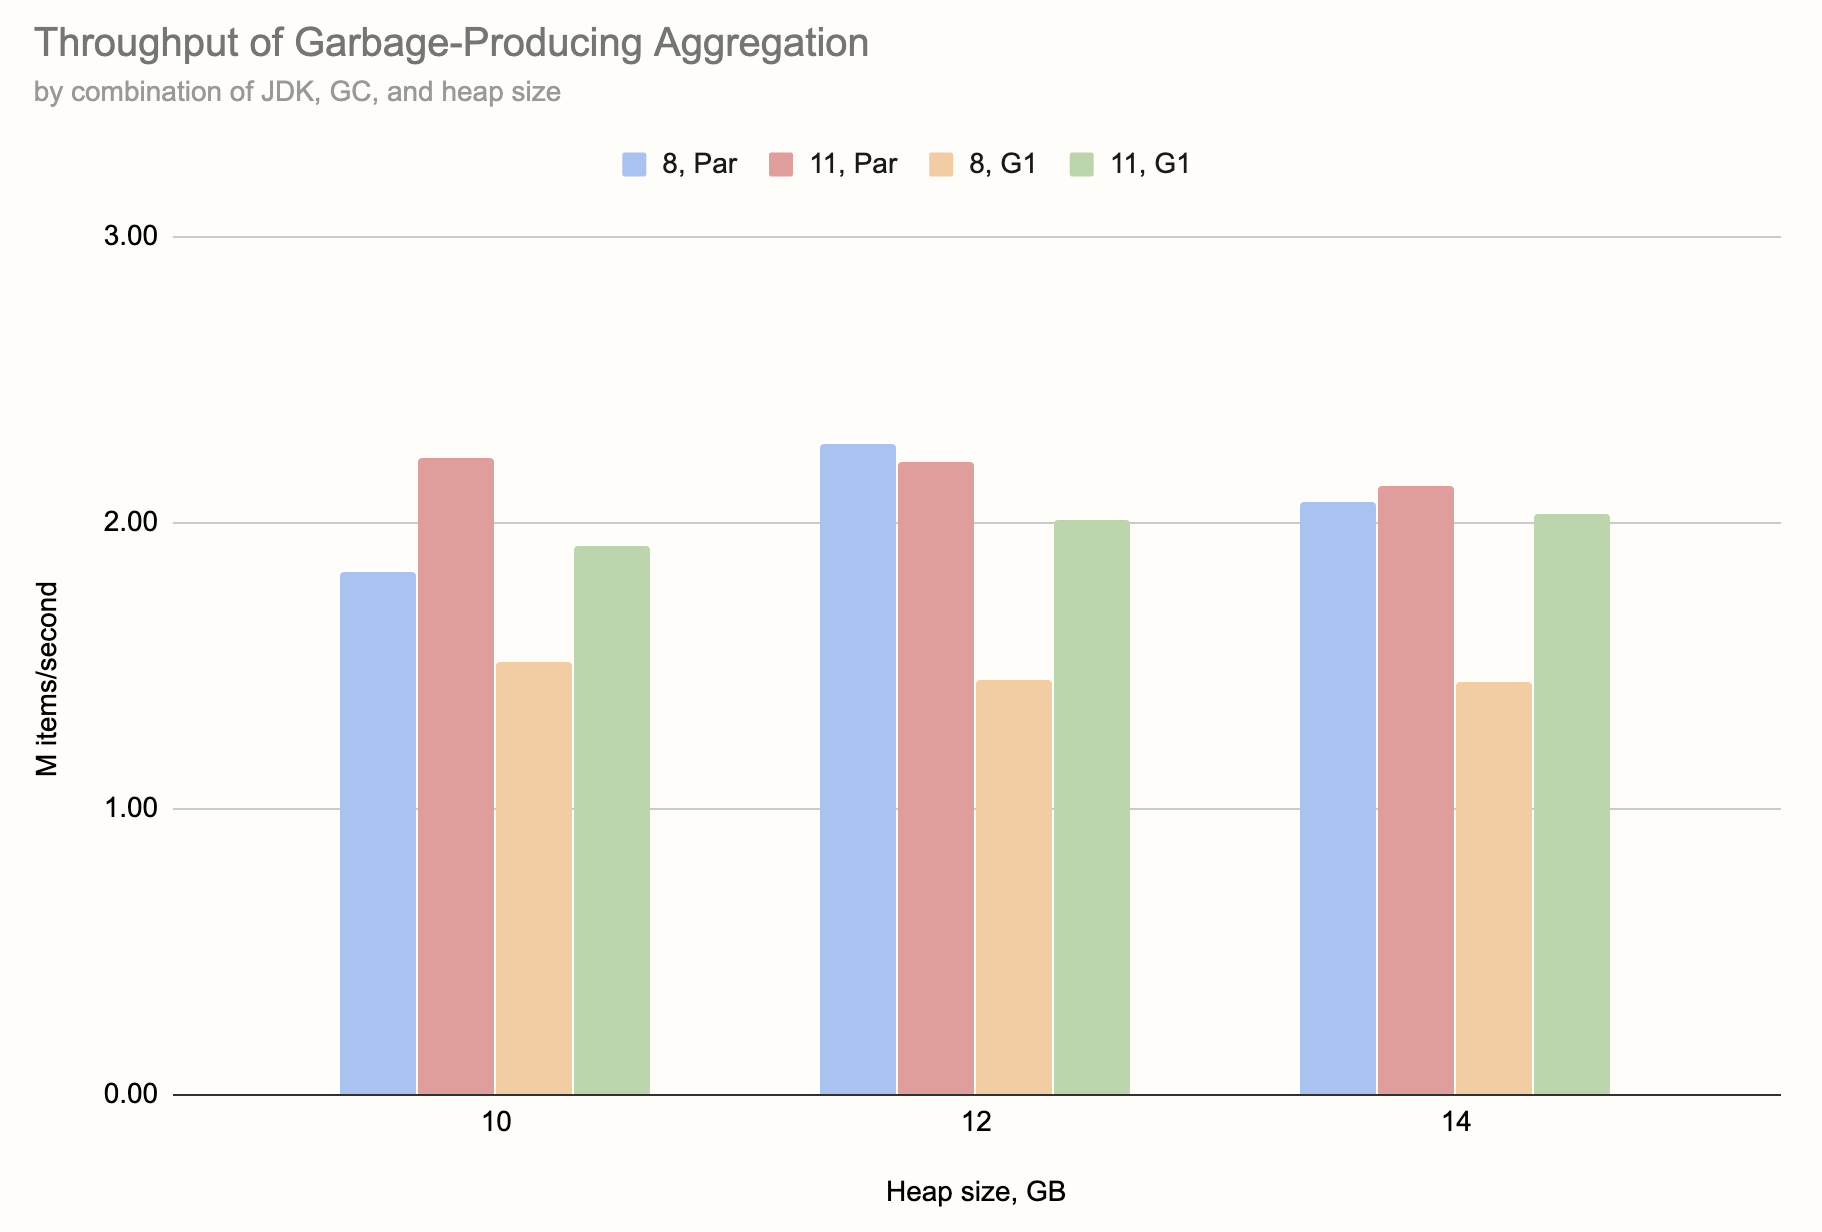
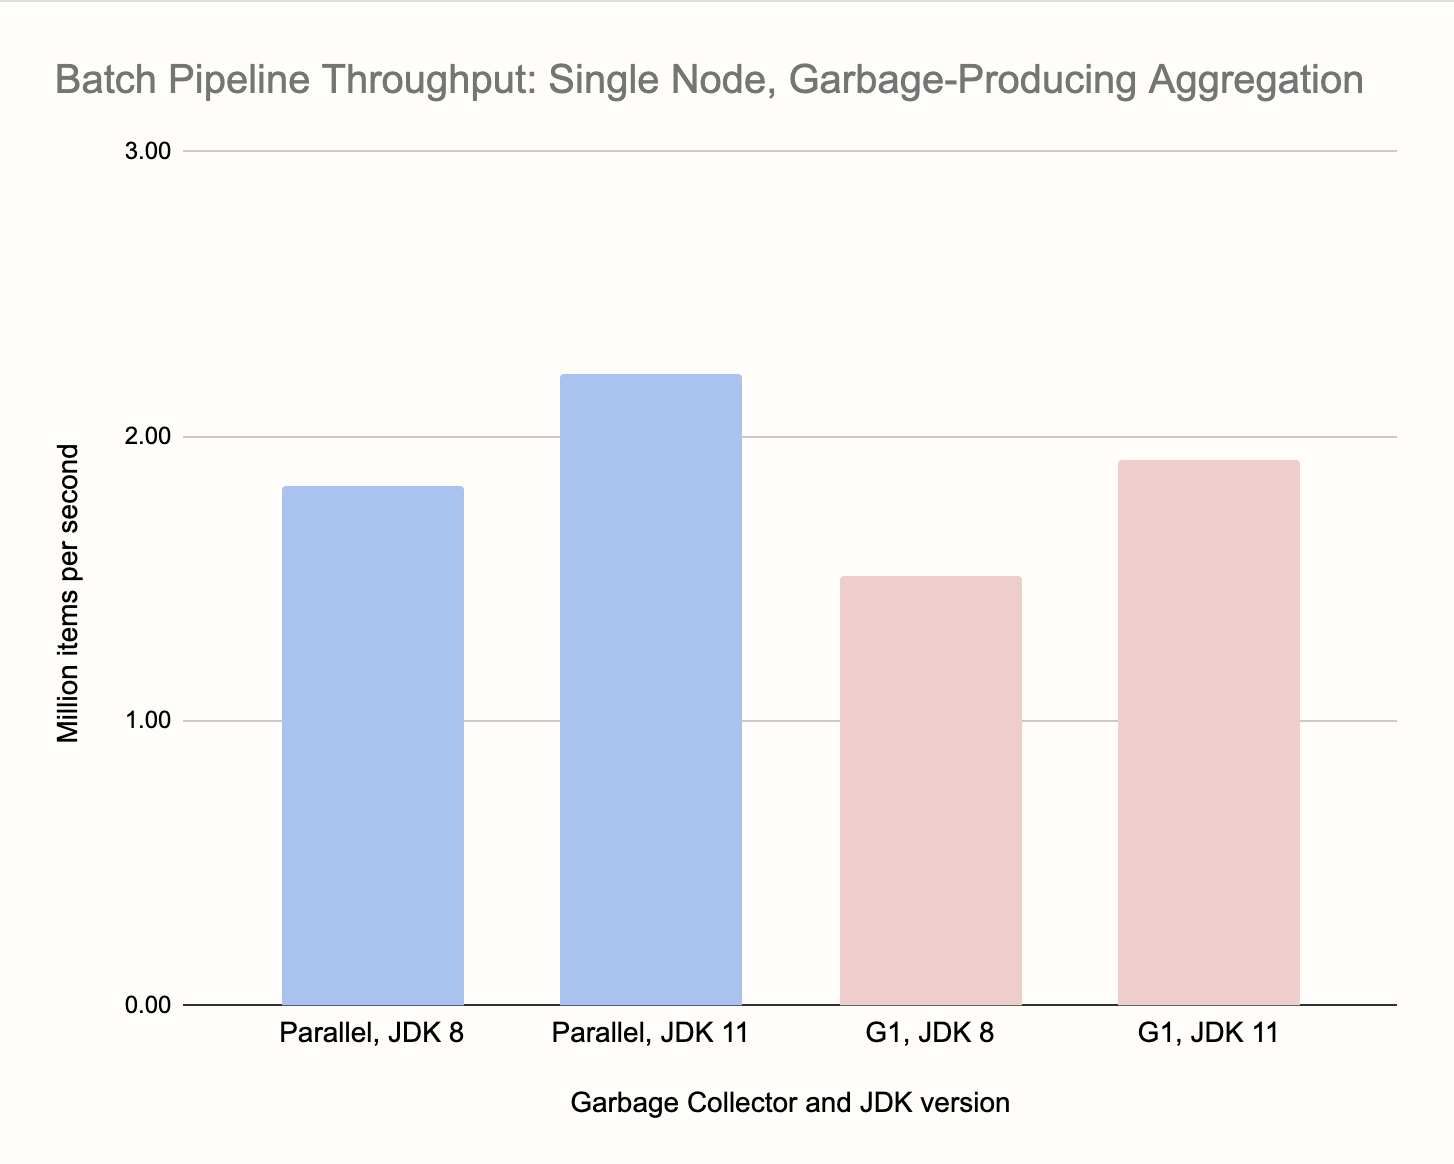
More content

diff --git a/site/website/blog/2020-06-01-jdk-gc-benchmarks-part2.md b/site/website/blog/2020-06-01-jdk-gc-benchmarks-part2.md
@@ -1,0 +1,181 @@
+---
+title: Benchmarking Jet with Different JDKs and GCs, Part 2
+description: Choosing the right JDK-GC combination is important.
+---
+
+## Batch Pipeline Benchmark
+
+For the batch benchmark we considered the Parallel GC as a relevant
+candidate. In the first testing round, on a single node, it actually
+delivered the best throughput (but only after GC tuning). However, it
+achieves that throughput at the expense of GC pause duration. In a
+cluster, whenever any node enters a GC pause, it stalls the whole data
+pipeline. Since individual nodes enter GC pauses at different times, the
+amount of time spent in GC goes up with every node you add to the
+cluster. We explored this effect by comparing single-node tests with
+tests in a three-node cluster.
+
+### Single-Node Benchmark: The Pipeline
+
+For the single-node batch benchmark we used this simple pipeline:
+
+```java
+p.readFrom(longSource)
+ .groupingKey(n -> n / % NUM_KEYS)
+ .aggregate(summingLong(n -> n))
+ .filter(e -> (e.getKey() & 0xFF_FFFFL) == 0)
+ .writeTo(Sinks.logger())
+```
+
+The source is again a self-contained mock source that just emits a
+sequence of `long` numbers and the key function is defined so that the
+grouping key cycles through the key space: 0, 1, 2, ..., 0, 1, 2, ...
+This means that, over the first cycle, the pipeline observes all the
+keys and builds up a fixed data structure to hold the aggregation
+results. Over the following cycles it just updates the existing data.
+This aligns perfectly with the Generational Garbage Hypothesis: the
+objects either last through the entire computation or are short-lived
+temporary objects that become garbage very soon after creation.
+
+We let our source emit 400 million items and had 100 million distinct
+keys, so we cycled four times over the same keys.
+
+We also tested a variant where the aggregate operation uses a boxed
+`Long` instance as state, producing garbage every time the running score
+is updated. In this case the garbage isn't strictly generational because
+the objects die after having spent substantial time in the old
+generation. For this variant we had to reduce the number of keys to 70
+million, with 100 million the GC pressure was too high.
+
+For the batch pipeline we didn't focus on the low-latency collectors
+since they have nothing to offer in this case. Also, because we saw
+earlier that JDK 14 performs much the same as JDK 11, we just ran one
+test to confirm it, but otherwise focused on JDK 8 vs. JDK 11 and
+compared the JDK 8 default Parallel collector with G1.
+
+### Single-Node Benchmark: The Results
+
+For single-node testing, we ran the benchmark on a laptop with 16 GB RAM
+and a 6-core Intel Core i7. We used a heap size of 10 GB.
+
+Initially we got very bad performance out of the Parallel collector and
+had to resort to GC tuning. For this purpose we highly recommend using
+VisualVM and its Visual GC plugin. When you set the frame rate to the
+highest setting (10 FPS), you can enjoy a very fine-grained visual
+insight into how the interplay between your application's allocation and
+the GC works out. By watching these live animations for a while, we
+realized that the main issue was a too large slice of RAM given to the
+new generation. By default the ratio between Old and New generations is
+just 2:1, and it is not dynamically adaptable at runtime. Based on this
+we decided to try with `-XX:NewRatio=8` and it completely changed the
+picture. Now Parallel was turning in the best times overall. We also
+used `-XX:MaxTenuringThreshold=2` to reduce the copying of data between
+the Survivor spaces, since in the pipeline the temporary objects die
+pretty soon.
+
+The only relevant metric in this batch pipeline benchmark is the time
+for the job to complete. To visualize the results we took the reciprocal
+of that, so the charts show throughput in items per second. Here are our
+results on a single node:
+
+![Single-node Batch pipeline with garbage-free aggregation](assets/2020-06-01-batch-mutable.png)
+
+![Single-node Batch pipeline with garbage-producing aggregation](assets/2020-06-01-batch-boxed.png)
+
+Comparing the two charts we can see that garbage-free aggregation gave a
+throughput boost of around 30-35%, and that's despite the larger
+keyset we used for it. G1 on JDK 8 was the worst performer and the
+fine-tuned Parallel on JDK 11 was the best. G1 on JDK 11 wasn't far
+behind. Note that we didn't have to touch anything in the configuration
+of G1, which is an important fact. GC tuning is highly case-specific,
+the results may dramatically change with e.g., more data, and it must be
+applied to the Jet cluster globally, making it specifically tuned for
+one kind of workload.
+
+Here's the performance of the default Parallel GC compared to the tuned
+version we used for testing:
+
+![Throughput of the Parallel Collector with and without tuning](assets/2020-06-01-batch-parallel.png)
+
+With 10 GB of heap it failed completely, stuck in back-to-back Full GC
+operations each taking about 7 seconds. With more heap it managed to
+make some progress, but was still hampered with very frequent Full GCs.
+Note that we got the above results for the most favorable case, with
+garbage-free aggregation.
+
+### Three-Node Cluster Benchmark: The Pipeline
+
+To properly benchmark in the cluster, we had to use a bit more complex
+pipeline:
+
+```java
+p.readFrom(longSource())
+ .rebalance() // Upcoming feature in Jet 4.2
+ .flatMap(n -> {
+     Long[] items = new Long[SOURCE_STEP];
+     Arrays.setAll(items, i -> n + i);
+     return traverseArray(items);
+ })
+ .rebalance()
+ .groupingKey(n -> n % NUM_KEYS)
+ .aggregate(AggregateOperations.summingLong(n -> n))
+ .filter(e -> e.getKey() % 1_000_000 == 0)
+ .writeTo(Sinks.logger())
+;
+```
+
+Since the source is non-parallel, we applied some optimizations so it
+doesn't become a bottleneck. We let the source emit the numbers 0, 10,
+20, ... and then applied a parallelized `flatMap` stage that
+interpolates the missing numbers. We also used `rebalance()` between the
+source and `flatMap`, spreading the data across the cluster. We applied
+rebalancing again before entering the main stage, keyed aggregation.
+Here rebalancing results in single-stage aggregation whereas Jet
+defaults to [two-stage
+aggregation](/docs/concepts/dag#group-and-aggregate-transform-needs-data-partitioning).
+It exhibited more predictable behavior in our benchmark. After the
+aggregation stage we first reduce the output to every millionth
+key-value pair and then send it to the logger. We used one billion data
+items and used a keyset of half a billion.
+
+Same as on single-node, we tested both this pipeline, with a garbage-free
+aggregation, and one with garbage producing aggregation.
+
+### Three-Node Cluster Benchmark: The Results
+
+We performed this benchmark on an AWS cluster of three c5d.4xlarge
+instances. They have 16 virtualized CPU cores and 32 GB of RAM. The
+network is 10 Gbit/s. Here are the results:
+
+![3-Node Batch pipeline with garbage-free aggregation](assets/2020-06-01-batch-cluster-mutable.png)
+
+![3-Node Batch pipeline with garbage-producing aggregation](assets/2020-06-01-batch-cluster-boxed.png)
+
+To begin with, we can note the overall increase in throughput compared
+to single-node benchmarks, about three times. That's the advantage of
+distributed processing. The most obvious thing to note is the almost
+nonexistent bar for G1 on JDK 8, however there's a deeper story here
+that affects other measurements as well, for example the apparent
+advantage of Parallel GC on JDK 8 vs. JDK 11. It has to do with the
+effect we noted at the outset: a GC pause on any one member halts the
+processing on the entire cluster. G1 on JDK 8 enters very long GC
+pauses, more than a minute. This is enough to trigger the cluster's
+failure detector and consider the node dead. The job fails, the cluster
+reshapes itself, and then the job restarts on just two nodes. This,
+naturally, fails even sooner because there's more data on each member.
+So we end up in an endless loop of job restarts.
+
+The good result for the Parallel on JDK 8 is due to a very lucky
+coincidence that the Full GC pauses got synchronized on all nodes,
+parallelizing the effort of the GC. Clearly, this is not a reliable
+effect.
+
+Even though in the particular benchmark setup which we report here, we
+didn't observe the catastrophic consequence of long GC pauses while
+using the Parallel collector, it is more of a chance outcome. In other
+tests, where we used a larger heap and more data, or the same heap but
+with less headroom left, the Parallel collector did cause the same
+damage. However, even when it doesn't cause outright failure, the charts
+show the advantage it had on a single node has disappeared. You can
+expect the results to get worse with each further node you add to the
+cluster.

diff --git a/site/website/blog/2020-06-01-jdk-gc-benchmarks-part1.md b/site/website/blog/2020-06-01-jdk-gc-benchmarks-part1.md
@@ -1,5 +1,5 @@
 ---
-title: Benchmarking Jet with Different JDKs and GCs
+title: Benchmarking Jet with Different JDKs and GCs, Part 1
 description: Choosing the right JDK-GC combination is important.
 ---
 
@@ -79,23 +79,19 @@ with some minor variations between the tests. Here is the main part, the
 Jet pipeline:
 
 ```java
-private static Pipeline buildPipeline() {
-    Pipeline p = Pipeline.create();
-    StreamStage<Long> source = p.readFrom(longSource(ITEMS_PER_SECOND))
-                                .withNativeTimestamps(0)
-                                .rebalance(); // Upcoming feature in Jet 4.2
-    source.groupingKey(n -> n % NUM_KEYS)
-          .window(sliding(SECONDS.toMillis(WIN_SIZE_SECONDS), SLIDING_STEP_MILLIS))
-          .aggregate(counting())
-          .filter(kwr -> kwr.getKey() % DIAGNOSTIC_KEYSET_DOWNSAMPLING_FACTOR == 0)
-          .window(tumbling(SLIDING_STEP_MILLIS))
-          .aggregate(counting())
-          .writeTo(Sinks.logger(wr -> String.format("time %,d: latency %,d ms, cca. %,d keys",
-                  simpleTime(wr.end()),
-                  NANOSECONDS.toMillis(System.nanoTime()) - wr.end(),
-                  wr.result() * DIAGNOSTIC_KEYSET_DOWNSAMPLING_FACTOR)));
-    return p;
-}
+StreamStage<Long> source = p.readFrom(longSource(ITEMS_PER_SECOND))
+                            .withNativeTimestamps(0)
+                            .rebalance(); // Upcoming feature in Jet 4.2
+source.groupingKey(n -> n % NUM_KEYS)
+      .window(sliding(SECONDS.toMillis(WIN_SIZE_SECONDS), SLIDING_STEP_MILLIS))
+      .aggregate(counting())
+      .filter(kwr -> kwr.getKey() % DIAGNOSTIC_KEYSET_DOWNSAMPLING_FACTOR == 0)
+      .window(tumbling(SLIDING_STEP_MILLIS))
+      .aggregate(counting())
+      .writeTo(Sinks.logger(wr -> String.format("time %,d: latency %,d ms, cca. %,d keys",
+              simpleTime(wr.end()),
+              NANOSECONDS.toMillis(System.nanoTime()) - wr.end(),
+              wr.result() * DIAGNOSTIC_KEYSET_DOWNSAMPLING_FACTOR)));
 ```
 
 Some notes:
@@ -275,87 +271,3 @@ the effects of JIT compilation in the borderline cases: the pipeline
 would start out with a constantly increasing latency, but then after
 around two minutes, its performance would improve and the latency would
 make a full recovery.
-
-## Batch Pipeline Benchmark
-
-For the batch benchmark we used this simple pipeline:
-
-```java
-p.readFrom(longSource)
- .groupingKey(n -> n / % NUM_KEYS)
- .aggregate(summingLong(n -> n))
- .writeTo(Sinks.logger())
-```
-
-The source is again a self-contained mock source that just emits a
-sequence of `long` numbers and the key function is defined so that the
-grouping key cycles through the key space: 0, 1, 2, ..., 0, 1, 2, ...
-This means that, over the first cycle, the pipeline observes all the
-keys and builds up a fixed data structure to hold the aggregation
-results. Over the following cycles it just updates the existing data.
-This aligns perfectly with the Generational Garbage Hypothesis: the
-objects either last through the entire computation or are short-lived
-temporary objects that become garbage very soon after creation.
-
-We tested another variant, where the aggregate operation uses a boxed
-`Long` instance as state, producing garbage every time the running score
-is updated. In this case the garbage isn't strictly generational because
-the objects die after having spent substantial time ind the old
-generation. Below we present two charts: the first one for the
-garbage-free aggregation and the second one for the garbage-producing
-aggregation.
-
-For the batch pipeline we didn't focus on the low-latency collectors
-since they have nothing to offer in this case. Also, because we saw
-earlier that JDK 14 performs much the same as JDK 11, we just ran one
-test to confirm it, but otherwise focused on JDK 8 vs. JDK 11 and
-compared the JDK 8 default Parallel collector with G1. We ran the
-benchmark on a laptop with 16 GB RAM and a 6-core Intel Core i7. We
-tested with three heap sizes (`-Xmx`): 10, 12 and 14 GB.
-
-Initially we got very bad performance out of the Parallel collector and
-had to resort to GC tuning. For this purpose we highly recommend using
-VisualVM and its Visual GC plugin. When you set the frame rate to the
-highest setting (10 FPS), you can enjoy a very fine-grained visual
-insight into how the interplay between your application's allocation and
-the GC works out. By watching these live animations for a while, we
-realized that the main issue was a too large slice of RAM given to the
-new generation. By default the ratio between Old and New generations is
-just 2:1, and it is not dynamically adaptable at runtime. Based on this
-we decided to try with `-XX:NewRatio=8` and it completely changed the
-picture. Now Parallel was turning in the best times overall. We also
-used `-XX:MaxTenuringThreshold=2` to reduce the copying of data between
-the Survivor spaces, since in the pipeline the temporary objects die
-pretty soon.
-
-Now we are ready to present the benchmark results. The only relevant
-metric in this batch pipeline benchmark is the time for the job to
-complete. To visualize the results we took the reciprocal of that, so
-the charts show throughput in items per second. Here are the results:
-
-![Batch pipeline with garbage-free aggregation](assets/2020-06-01-batch-mutable.png)
-
-![Batch pipeline with garbage-producing aggregation](assets/2020-06-01-batch-boxed.png)
-
-Comparing the two charts we can see that garbage-free aggregation gives
-a throughput boost of around 30-35%. The only anomaly is the G1 with
-garbage-free aggregationd on larger heap sizes. Its performance dropped
-with more heap, we couldn't find an explanation for this. G1 on JDK 8
-was consistently the worst performer, while the other combinations,
-Parallel on either JDK and G1 on JDK 11, performed similarly. Note that
-we didn't have to touch anything in the configuration of G1, which is
-an important fact. GC tuning is highly case-specific, the results may
-dramatically change with e.g., more data, and it must be applied to the
-Jet cluster globally, making it specifically tuned for one kind of
-workload.
-
-Here's the performance of the default Parallel GC compared to the tuned
-version we used for testing:
-
-![Throughput of the Parallel Collector with and without tuning](assets/2020-06-01-batch-parallel.png)
-
-With 10 GB of heap it failed completely, stuck in back-to-back Full GC
-operations each taking about 7 seconds. With more heap it managed to
-make some progress, but was still hampered with very frequent Full GCs.
-Note that we got the above results for the most favorable case, with
-garbage-free aggregation.

diff --git a/site/docs/operations/gc-concerns.md b/site/docs/operations/gc-concerns.md
@@ -11,38 +11,25 @@ combinations:
 
 1. JDK 8 with the default Parallel collector and the optional
    ConcurrentMarkSweep and G1
-2. JDK 11 with the default G1 collector
+2. JDK 11 with the default G1 collector and the optional Parallel
+   collector
 3. JDK 14 with the default G1 as well as the experimental Z and
   Shenandoah
 
 These are our key findings:
 
-1. For streaming applications, JDK version 8 should not be used anymore.
-   Its default collector, Parallel, is optimized for throughput and not
-   short GC pauses. In our tests on heaps of 10-14 GB, it had regular
-   Minor GC pauses close to a full second, and an occasional Full GC may
-   take 20 seconds or more. You can configure JDK 8 to use G1, but it's
-   missing important features and enters GC pauses longer than a minute.
-   The ConcurrentMarkSweep collector is strictly worse than G1 in all
-   scenarios, and its failure mode are multi-minute Full GC pauses.
+1. As far as Hazelcast Jet is concerned, JDK version 8 is an antiquated
+   runtime and shouldn't be used. None of its garbage collectors have
+   satisfactory performance and their long GC pauses even result in
+   nodes being kicked out of the cluster.
 2. JDK 11 is the current Long-Term Support (LTS) version by Oracle and
    it is the lowest version of JDK we recommend. We found that its
    version of the G1, without any fine-tuning, already delivers
    next-generation GC performance. The default maximum GC pause target
    is 200 ms, which it meets in a very broad range of scenarios. By
-   configuring a single JVM option (`-XX:MaxGCPauseMillis`), the maximum
-   GC pause can be confined to 20-25 ms, which it can maintain at lower
-   GC pressure levels.
-3. For batch workloads, the Parallel collector is still a viable choice,
-   but only with some GC tuning applied. With the default settings it
-   performs very poorly even in the best scenario where objects either
-   die young or live fovever. We found the main problem to be that
-   Parallel cannot dynamically change the ratio of RAM available to the
-   new and old generations, and the default ratio gives too much RAM to
-   the new generation. When we applied `-XX:NewRatio=8
-   -XX:MaxTenuringThreshold=2`, Parallel was much better than G1 on JDK
-   8 and even on JDK 11 it was marginally better (but only for batch
-   workloads).
+   configuring a single JVM option (`-XX:MaxGCPauseMillis`), you can
+   confine the maximum GC pause to 20-25 ms, which it can maintain at
+   lower GC pressure levels.
 4. There are two more GCs that are relevant, but as of this writing are
    in the experimental phase. They are the low-latency collectors:
    Oracle's Z and OpenJDK's Shenandoah. Testing on JDK 14, we found Z to
@@ -55,7 +42,7 @@ These are our key findings:
    some cases we were able to improve the throughput by using
    `-XX:ConcGCThreads`.
 
-We tested the above JDK/GC combinations in three different usage
+We tested the mentioned JDK/GC combinations in three different usage
 scenarios, deriving some conclusions and recommendations we present
 below.
 
@@ -99,10 +86,7 @@ is no additional latency requirement. The best option is the same as in
 the previous scenario: a modern JDK with G1. The default maximum GC
 pause of 200 ms is a good setting and allowing larger pauses may only
 marginally help increase the throughput. We found that G1 can perform
-well even at close to 90% heap usage. You may experiment with the
-Parallel collector using the GC tuning options `-XX:NewRatio=8
--XX:MaxTenuringThreshold=2` as a start, but we found the potential
-gain to be pretty low.
+well even at close to 90% heap usage.
 
 ### Garbage-Free Aggregation
 
